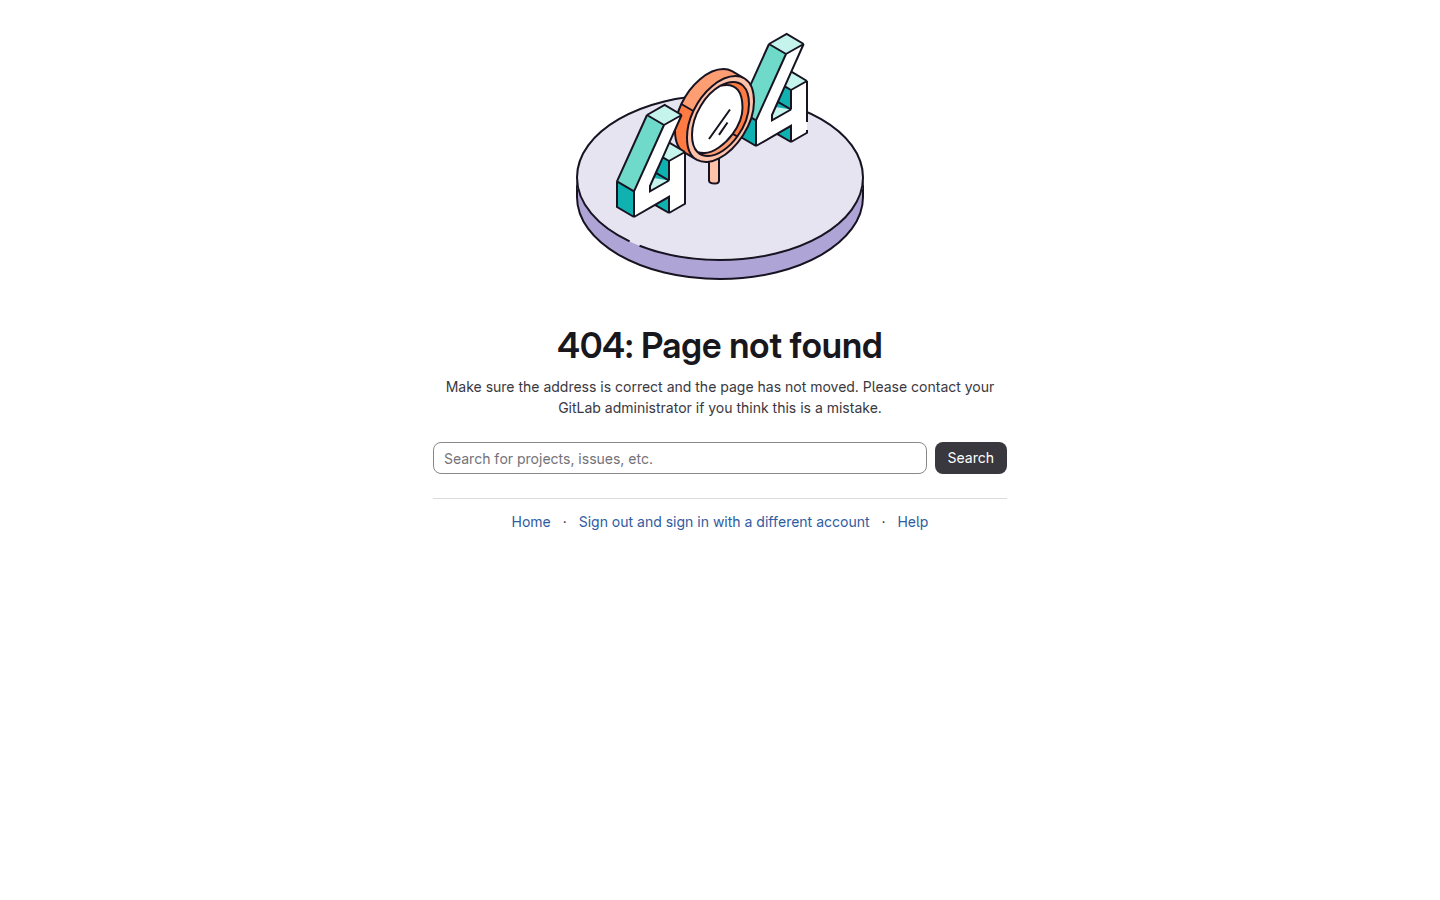
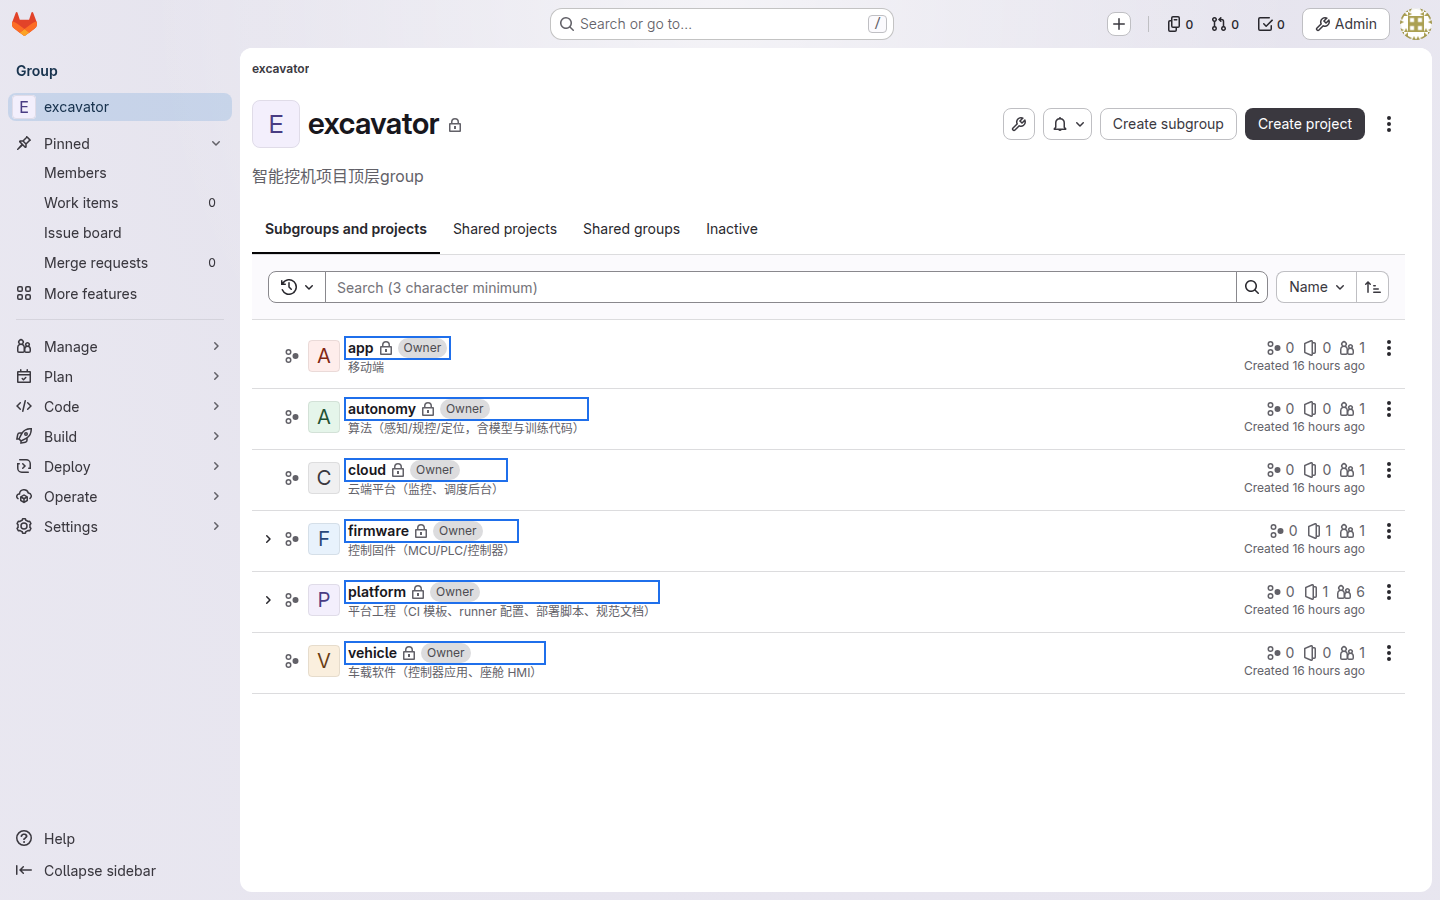
fix(tutorials): 补拍04组结构树截图（原图为404页）并同步资产
原 04-group-tree.png 拍摄时子组路由 404，内容为错误页。改拍 excavator
组主页（DOM 断言六个子组链接在场 + 像素比对排除404插画后截取），
并同步到教程 assets。同时入库全部原型截图以便溯源。

diff --git a/gitlab-compose-test/screenshot_grouptree.py b/gitlab-compose-test/screenshot_grouptree.py
@@ -1,0 +1,24 @@
+#!/usr/bin/env python3
+"""补拍 04-group-tree.png：excavator 组的子组树（Group overview → Subgroups）。"""
+import time
+from playwright.sync_api import sync_playwright
+
+URL = "http://127.0.0.1:8081"
+OUT = "/home/lancer/projects/frm/gitlab-compose-test/screenshots/04-group-tree.png"
+
+with sync_playwright() as p:
+    browser = p.chromium.launch(executable_path='/usr/bin/google-chrome')
+    ctx = browser.new_context(viewport={"width": 1440, "height": 900}, ignore_https_errors=True)
+    page = ctx.new_page()
+    page.goto(f"{URL}/users/sign_in", wait_until="networkidle")
+    page.fill("input[name='user[login]']", "root")
+    page.fill("input[name='user[password]']", "Excavator#2026Proto")
+    page.click("button[type='submit']")
+    page.wait_for_load_state("networkidle")
+    time.sleep(2)
+    # excavator 组主页（子组以卡片形式列在页面里）
+    page.goto(f"{URL}/excavator", wait_until="networkidle", timeout=20000)
+    time.sleep(2)
+    page.screenshot(path=OUT, full_page=False)
+    print(f"[OK] {OUT} — excavator 组主页（含 6 子组卡片）")
+    browser.close()
